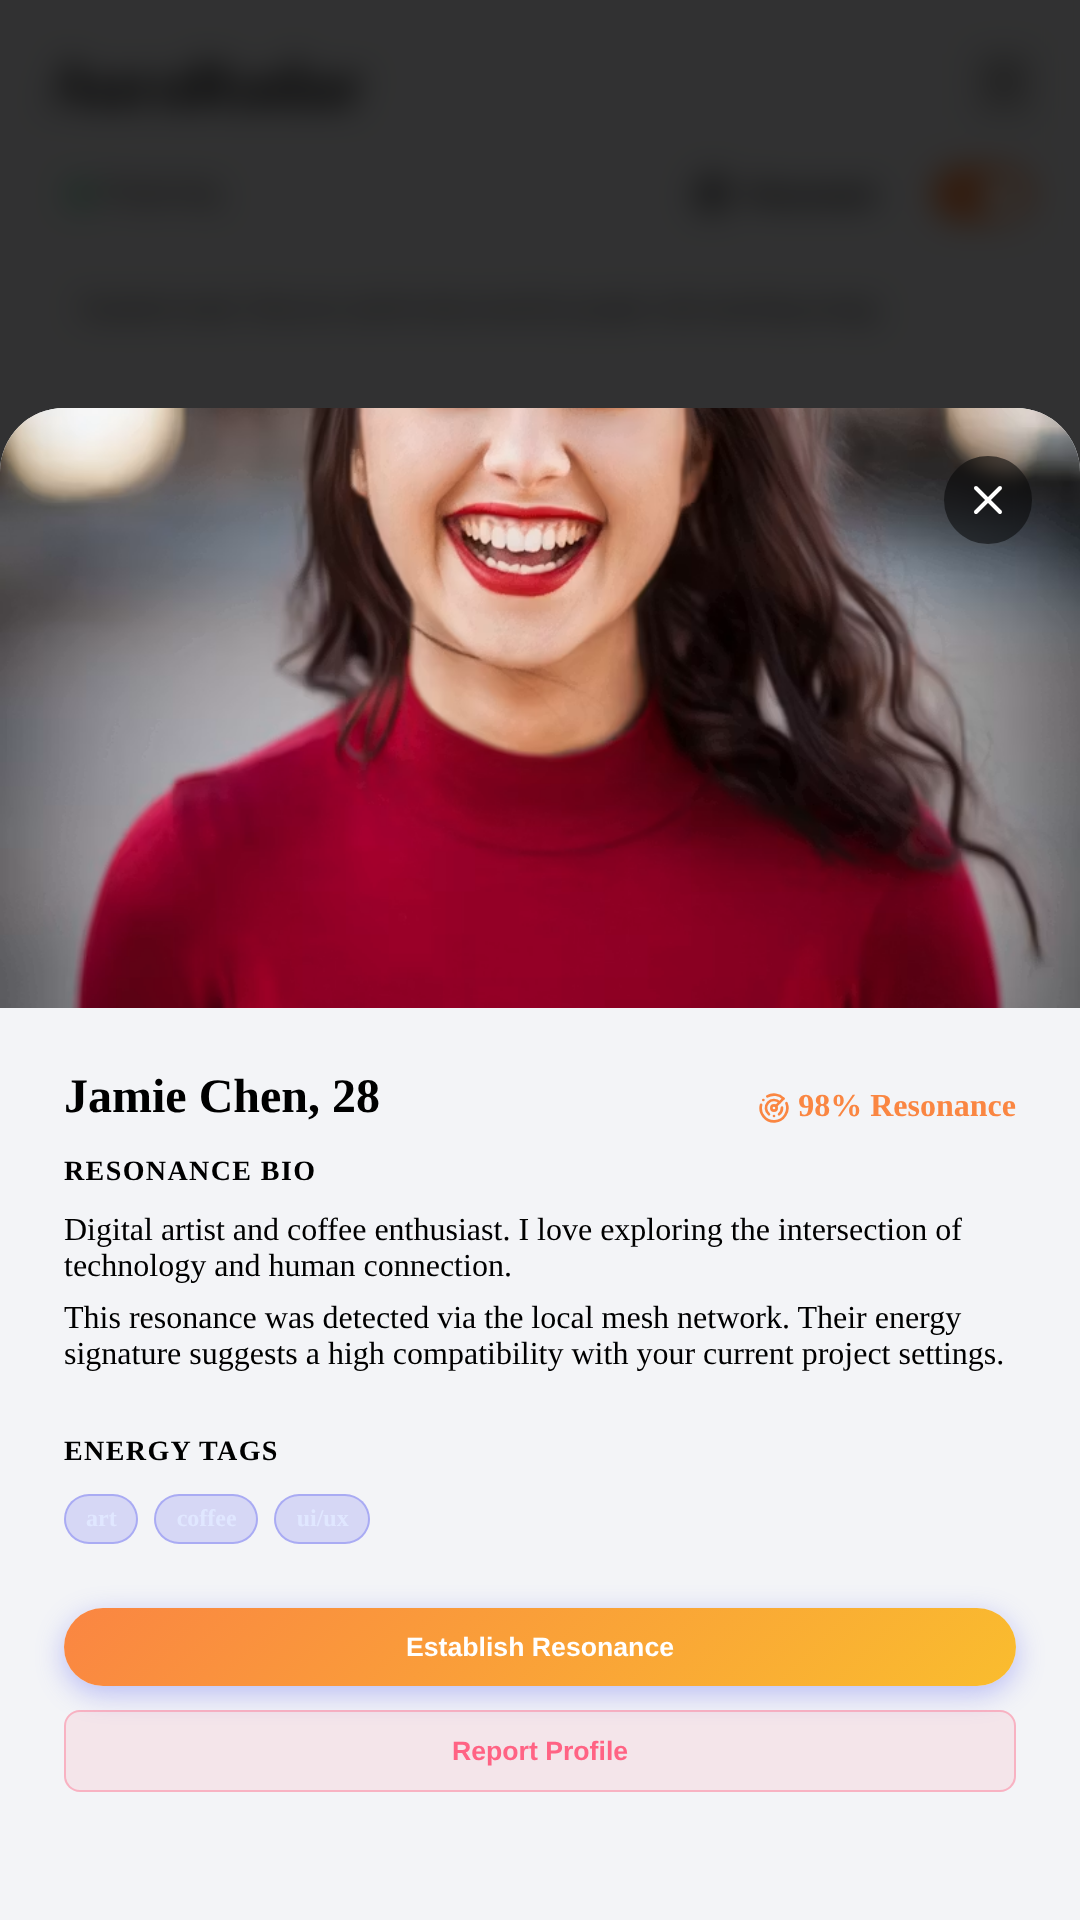
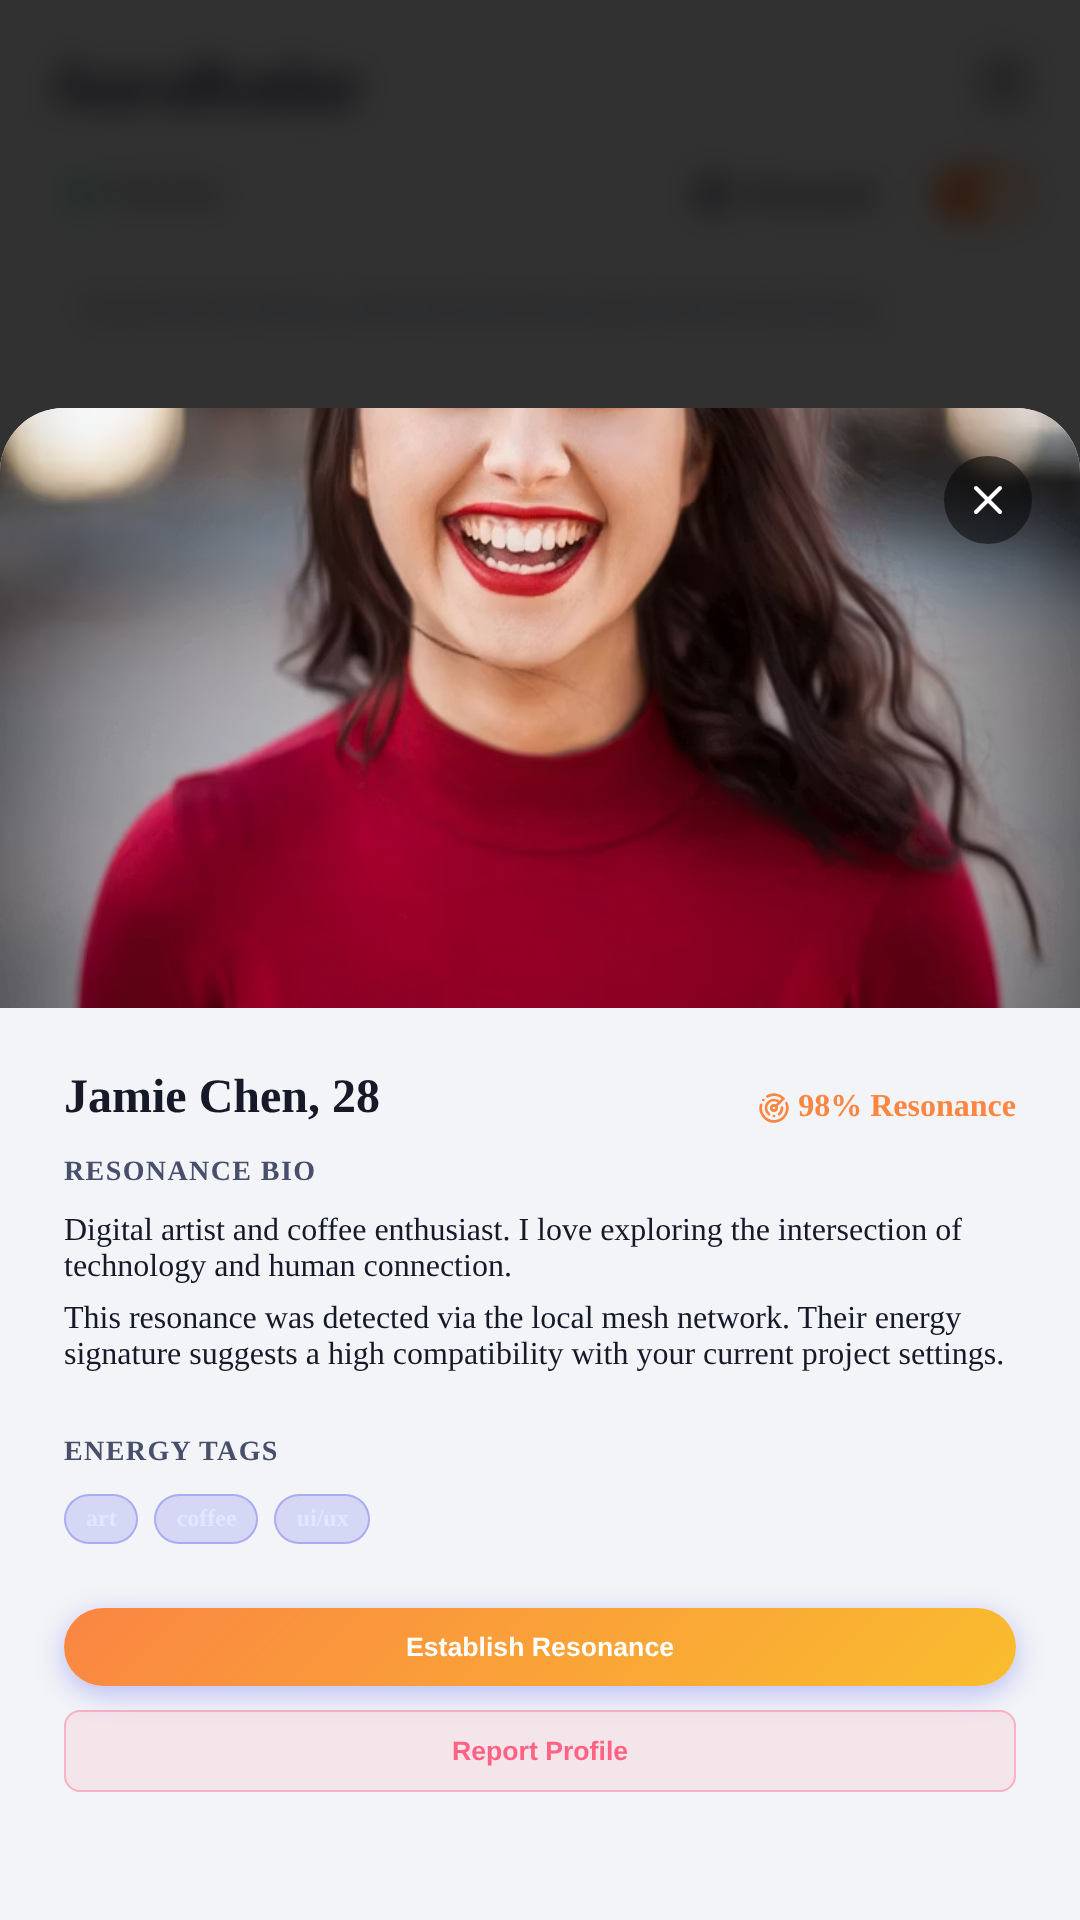
chore: refine UI styling, organize screenshots into separate slots, bump app version to 0.1.10, and deploy to Google Play Store

diff --git a/src/ui/App.css b/src/ui/App.css
@@ -6,8 +6,8 @@
   --font-sans: var(--font-sans);
   --bg-primary: var(--color-void-deep);
   --bg-secondary: var(--color-void-mid);
-  --text-primary: var(--text-primary);
-  --text-secondary: var(--text-secondary);
+  --text-primary: hsl(0, 0%, 100%);
+  --text-secondary: hsl(220, 6%, 82%);
   --accent-primary: var(--aura-local-primary);
   --accent-hover: var(--aura-local-secondary);
   --accent-success: var(--aura-secure-primary);
@@ -16,13 +16,15 @@
   --glass-border: var(--glass-border);
   --glass-shadow: var(--glass-shadow);
   --item-bg: var(--color-void-light);
+  --match-overlay-bg: rgba(20, 20, 25, 0.96);
+  --btn-secondary-hover: rgba(255, 255, 255, 0.1);
 }
 
 .light-theme {
   --bg-primary: var(--color-void-deep);
   --bg-secondary: var(--color-void-mid);
-  --text-primary: var(--text-primary);
-  --text-secondary: var(--text-secondary);
+  --text-primary: hsl(228, 30%, 12%);
+  --text-secondary: hsl(228, 20%, 35%);
   --accent-primary: var(--aura-local-primary);
   --accent-hover: var(--aura-local-secondary);
   --accent-success: var(--aura-secure-primary);
@@ -31,6 +33,8 @@
   --glass-border: var(--glass-border);
   --glass-shadow: var(--glass-shadow);
   --item-bg: var(--color-void-light);
+  --match-overlay-bg: rgba(240, 242, 245, 0.96);
+  --btn-secondary-hover: rgba(0, 0, 0, 0.05);
 }
 
 * {
@@ -235,6 +239,25 @@ body {
 .btn-primary:hover {
   transform: translateY(-2px);
   box-shadow: 0 6px 20px rgba(99, 102, 241, 0.23);
+}
+
+.btn-secondary {
+  background: var(--glass-bg);
+  border: 1px solid var(--glass-border);
+  color: var(--text-primary);
+  padding: 0.75rem 1.5rem;
+  border-radius: 9999px;
+  font-weight: 600;
+  cursor: pointer;
+  display: flex;
+  align-items: center;
+  justify-content: center;
+  gap: 0.5rem;
+  transition: all 0.2s ease;
+}
+.btn-secondary:hover {
+  background: var(--btn-secondary-hover);
+  transform: translateY(-2px);
 }
 
 /* Toggle Switch */
@@ -651,7 +674,8 @@ input:checked + .slider:before { transform: translateX(22px); }
 .match-overlay {
   position: fixed;
   top: 0; left: 0; right: 0; bottom: 0;
-  background: rgba(15, 23, 42, 0.95);
+  background: var(--match-overlay-bg);
+  color: var(--text-primary);
   backdrop-filter: blur(20px);
   z-index: 200;
   display: flex;
@@ -668,6 +692,12 @@ input:checked + .slider:before { transform: translateX(22px); }
   padding: 2rem;
   width: 100%;
   max-width: 400px;
+}
+
+.match-subtitle {
+  color: var(--text-secondary);
+  font-size: 1.125rem;
+  margin-bottom: 2rem;
 }
 
 .match-title {

diff --git a/doc/readme.md b/doc/readme.md
@@ -60,12 +60,12 @@ Explore the standard **9:16 portrait views** of AuraRadar, showing the high-fide
 
 | **1. Secure Onboarding** | **2. Proximity Radar** | **3. Swipe Discovery** | **4. Profile Details** |
 | :---: | :---: | :---: | :---: |
-| ![Onboard securely](./fst/metadata/android/en-US/images/phoneScreenshots/1.png) | ![Scan proximity](./fst/metadata/android/en-US/images/phoneScreenshots/2.png) | ![Encounter cards](./fst/metadata/android/en-US/images/phoneScreenshots/3.png) | ![Profile details](./fst/metadata/android/en-US/images/phoneScreenshots/4.png) |
+| ![Onboard securely](./fst/metadata/android/en-US/images/phoneScreenshots/1.png?v=1.9) | ![Scan proximity](./fst/metadata/android/en-US/images/phoneScreenshots/2.png?v=1.9) | ![Encounter cards](./fst/metadata/android/en-US/images/phoneScreenshots/3.png?v=1.9) | ![Profile details](./fst/metadata/android/en-US/images/phoneScreenshots/4.png?v=1.9) |
 | *Onboard securely with name and bio* | *Scan proximity space for local resonances* | *Encounter and swipe on nearby active profile cards* | *Inspect profile bio, interests, and distance* |
 
 | **5. Mutual Match** | **6. Encrypted P2P Chat** | **7. Interaction History** | **8. Zero-Knowledge Settings** |
 | :---: | :---: | :---: | :---: |
-| ![Celebrate match](./fst/metadata/android/en-US/images/phoneScreenshots/5.png) | ![Direct mesh chat](./fst/metadata/android/en-US/images/phoneScreenshots/6.png) | ![Swipes history](./fst/metadata/android/en-US/images/phoneScreenshots/7.png) | ![Settings coordinates](./fst/metadata/android/en-US/images/phoneScreenshots/8.png) |
+| ![Celebrate match](./fst/metadata/android/en-US/images/phoneScreenshots/5.png?v=1.9) | ![Direct mesh chat](./fst/metadata/android/en-US/images/phoneScreenshots/6.png?v=1.9) | ![Swipes history](./fst/metadata/android/en-US/images/phoneScreenshots/7.png?v=1.9) | ![Settings coordinates](./fst/metadata/android/en-US/images/phoneScreenshots/8.png?v=1.9) |
 | *Instant match celebration screen* | *Secure mesh chat thread with live resonance scoring* | *Review history of past matches and encounters* | *Configure privacy and coordinate blinding tooltips* |
 
 ---
